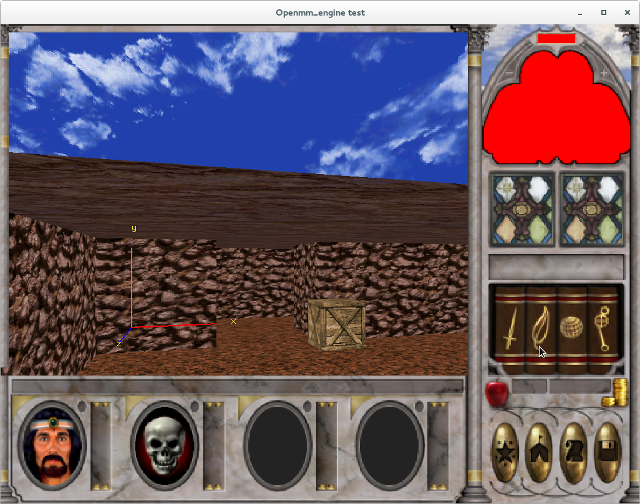
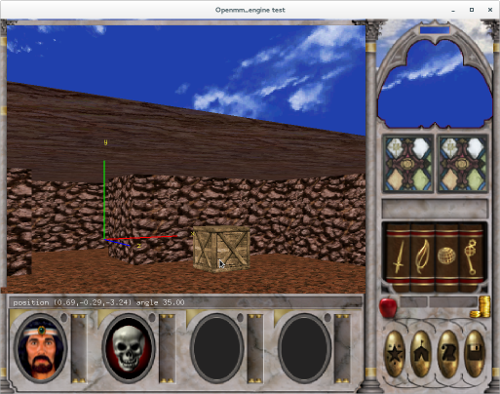
sprite transparency implemented

diff --git a/openmm_engine_test.py b/openmm_engine_test.py
@@ -30,7 +30,7 @@ tm = 0 # texmanager
 lm = 0 # lodmanager
 window = 0
 
-sw = 1024
+sw = 1024  # glutGet(GLUT_WINDOW_WIDTH)
 sh = 768
 swf = float(sw) / 640.0
 shf = float(sh) / 480.0
@@ -80,7 +80,7 @@ def keyPressed(*args):
     mov_step = 0.8
 
     if args[0] == b'\033': # escape
-        sys.exit()
+        sys.exit(0)
 
     if args[0] == b'a':
         y_axis = y_axis - rot_step;
@@ -256,6 +256,7 @@ def DrawAxis():
     glPopMatrix();
 
 def DrawText(msg):
+    glPushMatrix();
     glDisable(GL_COLOR_MATERIAL)
     glDisable(GL_LIGHTING)
     glDisable(GL_BLEND)
@@ -269,62 +270,53 @@ def DrawText(msg):
         off += 9
         glRasterPos2f(18 + off, hoff)
         glutBitmapCharacter(GLUT_BITMAP_9_BY_15, ord(c))
-
-    glEnable(GL_COLOR_MATERIAL)
-    glEnable(GL_LIGHTING)
-    glEnable(GL_BLEND)
-    glEnable(GL_TEXTURE_2D)
-    glEnable(GL_DEPTH_TEST)
+    glPopMatrix();
 
 def Draw2DImage(texture, w, h, x, y):
+    glPushMatrix()
     glBindTexture(GL_TEXTURE_2D, texture)
-    glPushMatrix();
-    glTranslatef(x,y,0);
-    glBegin(GL_QUADS);
-    glTexCoord2f(0.0, 1.0); glVertex2f(0.0, 0.0);
-    glTexCoord2f(0.0, 0.0); glVertex2f(0.0, h*shf);
-    glTexCoord2f(1.0, 0.0); glVertex2f(w*swf, h*shf);
-    glTexCoord2f(1.0, 1.0); glVertex2f(w*swf, 0.0);
-    glEnd();
-    glPopMatrix();
+    glTranslatef(x,y,0)
+    glBegin(GL_QUADS)
+    glTexCoord2f(0.0, 1.0); glVertex2f(0.0, 0.0)
+    glTexCoord2f(0.0, 0.0); glVertex2f(0.0, h*shf)
+    glTexCoord2f(1.0, 0.0); glVertex2f(w*swf, h*shf)
+    glTexCoord2f(1.0, 1.0); glVertex2f(w*swf, 0.0)
+    glEnd()
+    glPopMatrix()
 
 def InitGL():
     glClearColor(0.1, 0.1, .7, 0.0)
-    glClearDepth(1.0)
+    #glClearDepth(1.0)
     glDepthFunc(GL_LESS) # LEQUAL
     glShadeModel(GL_SMOOTH)
-
     glTexParameterf(GL_TEXTURE_2D, GL_TEXTURE_MAG_FILTER, GL_NEAREST)
     glTexParameterf(GL_TEXTURE_2D, GL_TEXTURE_MIN_FILTER, GL_NEAREST)
     glTexEnvf(GL_TEXTURE_ENV, GL_TEXTURE_ENV_MODE, GL_DECAL)
 
 def Set2DMode():
     glMatrixMode(GL_PROJECTION)
-    glLoadIdentity();
+    glLoadIdentity()
     glOrtho(0, sw, sh, 0, -1, 1)
     glMatrixMode(GL_MODELVIEW)
     glLoadIdentity()
-    glDisable(GL_DEPTH_TEST)
-    glEnable (GL_BLEND)
-    glBlendFunc(GL_SRC_ALPHA, GL_ONE_MINUS_SRC_ALPHA)
     glEnable(GL_TEXTURE_2D)
+    glDisable(GL_DEPTH_TEST)
+    glTexEnvf(GL_TEXTURE_ENV, GL_TEXTURE_ENV_MODE, GL_REPLACE)
+    glEnable (GL_BLEND)
+    glBlendFunc ( GL_SRC_ALPHA, GL_ONE_MINUS_SRC_ALPHA)
 
 def Set3DMode():
     glMatrixMode(GL_PROJECTION)
     glLoadIdentity()
-    gluPerspective(60.0, float(sw) / float(sh), .1, 3000)
+    gluPerspective(50.0, float(sw) / float(sh), .1, 3000)
     gluLookAt(0, 0, .5, 0, 0, 0, 0.0, 1.0, 0.0)
     glMatrixMode(GL_MODELVIEW)
     glLoadIdentity();
     glEnable(GL_TEXTURE_2D)
-
-    glEnable (GL_BLEND)
-    glBlendEquation(GL_FUNC_ADD)
-    glBlendFunc(GL_SRC_ALPHA, GL_ONE_MINUS_SRC_ALPHA)
-
     glEnable(GL_DEPTH_TEST)
-    glEnable(GL_ALPHA_TEST)
-    glAlphaFunc(GL_GREATER, 0)
+    #glEnable (GL_BLEND)
+    #glBlendEquation(GL_FUNC_ADD)
+    #glBlendFunc(GL_SRC_ALPHA, GL_ONE_MINUS_SRC_ALPHA)
     #glEnable(GL_LIGHTING)
     #glDisable(GL_COLOR_MATERIAL)
 

diff --git a/Engine/TextureManager.py b/Engine/TextureManager.py
@@ -49,6 +49,7 @@ class TextureManager(object):
 
         if transparency_color is not None:
             t=transparency_color
+            self.transparency_color = t
             for y in range(img.size[1]):
                 for x in range(img.size[0]):
                     p = img.getpixel((x, y))
@@ -62,7 +63,7 @@ class TextureManager(object):
         glTexParameterf   ( GL_TEXTURE_2D, GL_TEXTURE_WRAP_T, GL_REPEAT )
         glTexParameteri   ( GL_TEXTURE_2D,GL_TEXTURE_MAG_FILTER,GL_NEAREST ) #NEAREST
         glTexParameteri   ( GL_TEXTURE_2D,GL_TEXTURE_MIN_FILTER,GL_NEAREST_MIPMAP_LINEAR ) #any combo
-        gluBuild2DMipmaps ( GL_TEXTURE_2D, 3, width, height, GL_RGBA, GL_UNSIGNED_BYTE, image )
+        gluBuild2DMipmaps ( GL_TEXTURE_2D, GL_RGBA, width, height, GL_RGBA, GL_UNSIGNED_BYTE, image )
 
         self.textures[sfile] = {'id': texture_id, 'dir': dirname,
                                'w': width, 'h': height}
